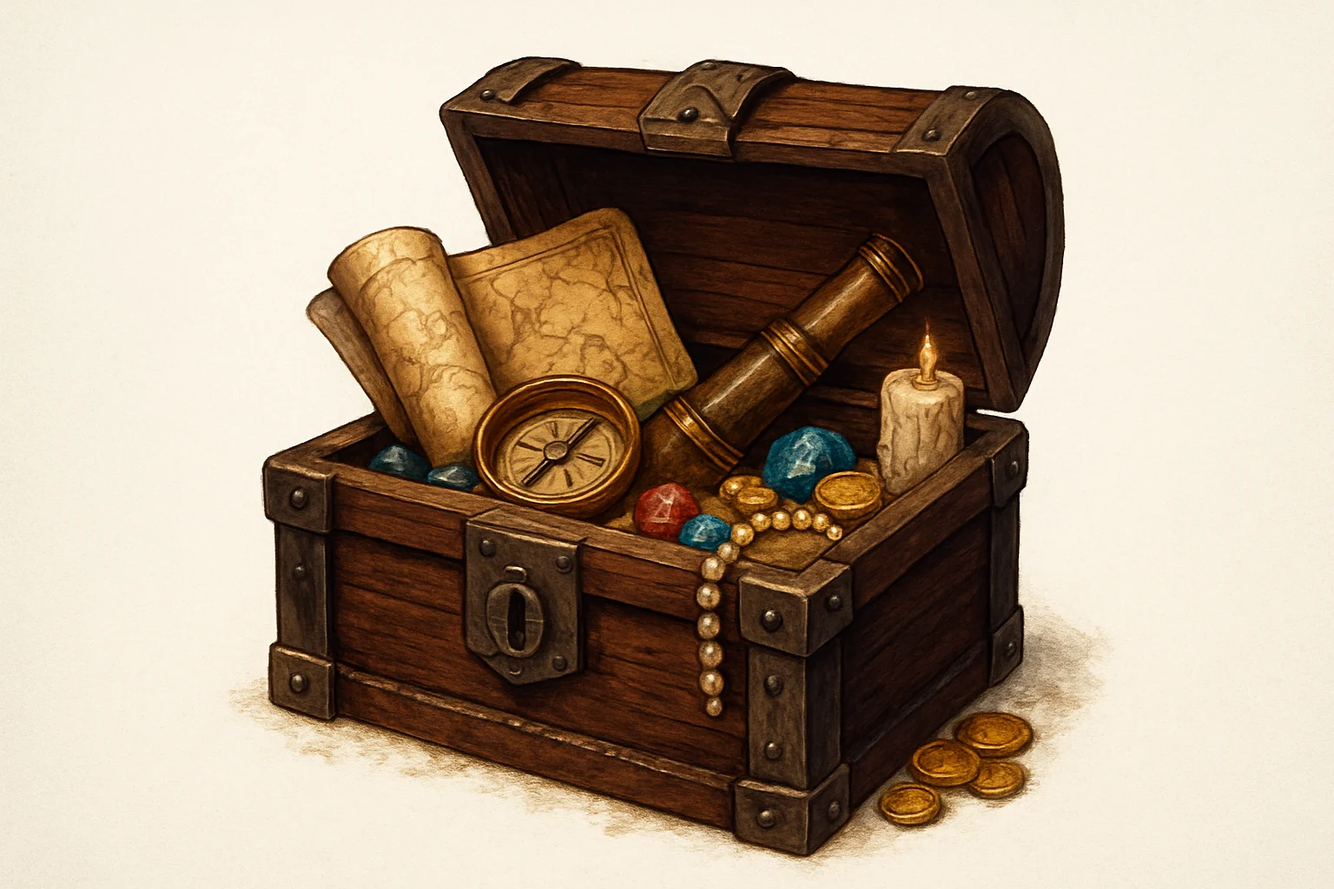
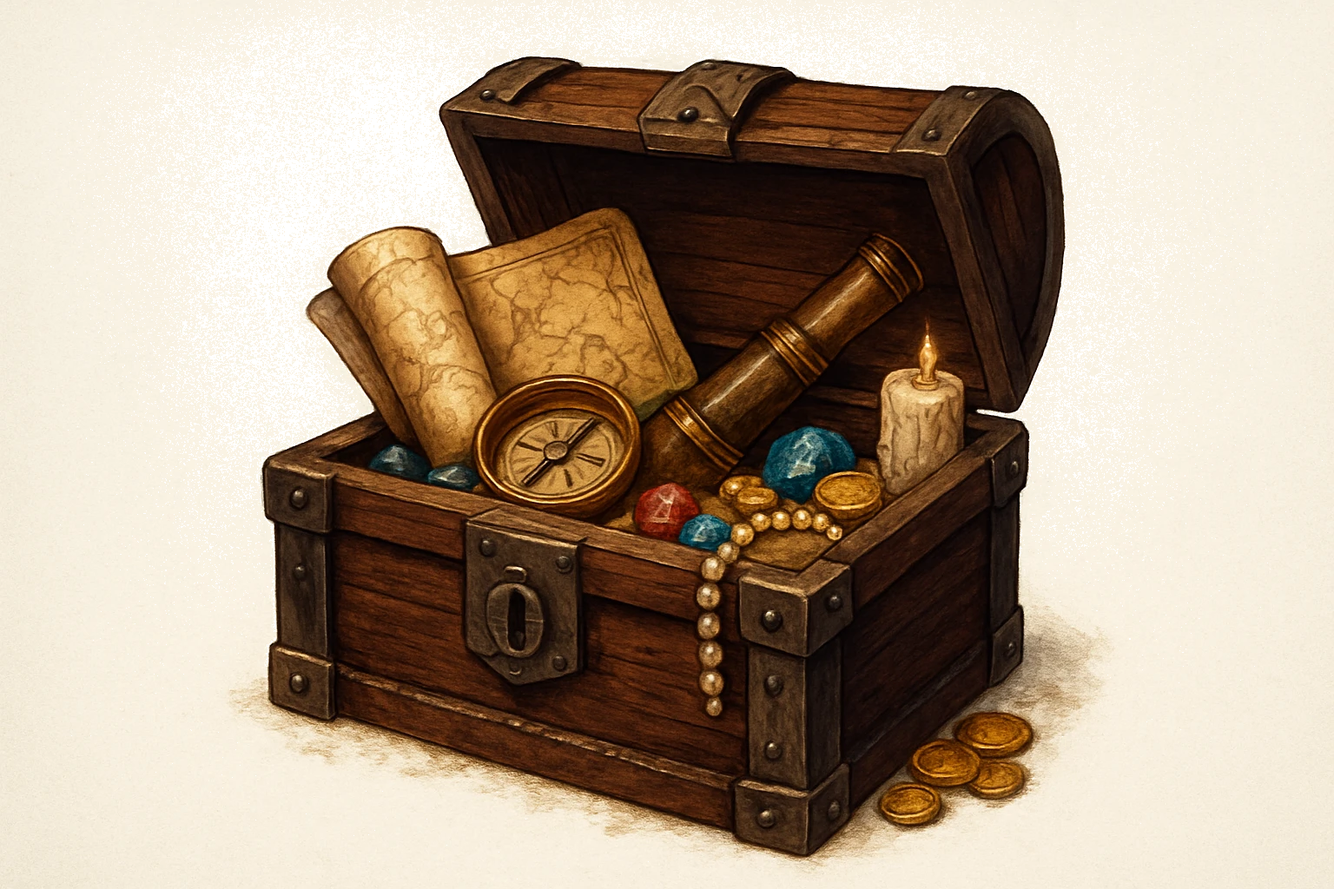
fix: точка на mapFind убрана, иконки x2, прозрачный фон ассетов
Четыре правки + бонус-фикс синхрона версий модулей.

## 1. Favicon — ассеты обновлены Алексеем (квадратные), <link> уже на месте
favicon.ico (3.8 KB → 65 KB) и favicon.png (65 KB → 240 KB) пересохранены
правильным квадратным компасом. Два <link rel=icon> в index.html уже
стояли — только cache-bust подняли.

## 2. mapFind — точка-кружок убрана (для стран с геометрией)
ui.js renderMapFind: переменная useDot заменена на isDotOnly. Раньше
точка добавлялась в двух случаях: dot-only (нет геометрии) И микро-
государства (bbox<8). Теперь — только dot-only. Для микрогосударств
автозум к MIN=80 делает оранжевую заливку path читаемой и без кружка.

⚠ Edge-case ОСТАВЛЕН: для 13 dot-only стран (GF/GP/MQ/RE/YT и пр.,
«заморские территории Франции» и мелкие острова без отдельной
геометрии в Natural Earth) точка СОХРАНЕНА — иначе карта для них
полностью пустая, вопрос не играется. Спека прямо говорит «убрать
точку», но не учитывала этот класс стран. Проверено: GF (Французская
Гвиана) после правки = 1 circle, обычная страна = 0 circles. Если
хочешь убрать ТОЖЕ — скажи, тогда уберу тему mapFind для этих 13
стран из манифеста.

## 3. Размеры иконок удвоены
css/style.css:
- .menu-inv-icon 32 → 64
- .xp-icon 20 → 40
- .bonus-chest-icon 32 → 56 (display:block → vertical-align:middle
  как в спеке; object-fit:contain оставлен — безопасен для img).
.chest-inline-icon (1.1em, инлайн в строках наград) не тронут — он
уже масштабируется по em окружающего текста.
[…]

Changed region(s): [[0.0938, 0.0, 0.875, 0.5938], [0.25, 0.1875, 0.375, 0.2812]]

diff --git a/js/ui.js b/js/ui.js
@@ -1,17 +1,17 @@
 // Слой представления: переключение экранов и заполнение их данными.
 // Никакой игровой логики и state — только DOM.
 
-import { codeToEmoji, officialName } from "./data.js?v=20260572";
-import { t } from "./i18n.js?v=20260575";
+import { codeToEmoji, officialName } from "./data.js?v=20260578";
+import { t } from "./i18n.js?v=20260578";
 
 // HTML-фрагменты для встроенных иконок (сундук в бонус-сетке/строках наград,
 // XP-медалька в счётчике). Раньше использовались эмодзи 🧰 / ✨ через
 // .textContent — теперь приёмники переключены на .innerHTML и подставляют эти
 // строки. Cache-bust ?v= на ассеты — чтобы при подмене webp-файла браузер
 // не показывал старую картинку.
-export const CHEST_HTML = '<img src="img/chest.webp?v=20260575" class="chest-inline-icon" alt="сундук">';
-const CHEST_BONUS_HTML = '<img src="img/chest.webp?v=20260575" class="bonus-chest-icon" alt="сундук">';
-const XP_ICON_HTML = '<img src="img/xp_icon.webp?v=20260575" class="xp-icon" alt="XP">';
+export const CHEST_HTML = '<img src="img/chest.webp?v=20260578" class="chest-inline-icon" alt="сундук">';
+const CHEST_BONUS_HTML = '<img src="img/chest.webp?v=20260578" class="bonus-chest-icon" alt="сундук">';
+const XP_ICON_HTML = '<img src="img/xp_icon.webp?v=20260578" class="xp-icon" alt="XP">';
 
 export function showScreen(name) {
   const screens = document.querySelectorAll(".screen");
@@ -422,9 +422,13 @@ async function loadWorldmapData() {
   return worldmapData;
 }
 
-// Рисует карту мира в flagEl с подсвеченной страной (оранжевой). Микрогосударства
-// (bbox < 8px) дополнительно помечает кружком. Автозум к bbox страны (MIN 80, отступ
-// 50%). Токен защищает от гонки: если вопрос сменился, пока грузилась карта, — выходим.
+// Рисует карту мира в flagEl с подсвеченной страной (оранжевой заливкой пути).
+// Автозум к bbox страны (MIN 80, отступ 50%). Токен защищает от гонки: если вопрос
+// сменился, пока грузилась карта, — выходим. Кружок-подсказка сверху больше не
+// рисуется для стран с геометрией (правка 2026-05-30: после автозума к MIN=80
+// заливка видна и для микрогосударств, кружок только мешал восприятию). Для
+// dot-only стран (13 без геометрии в Natural Earth) точка ОСТАЁТСЯ — без неё
+// карта для них пуста и вопрос неиграбелен.
 async function renderMapFind(country, flagEl) {
   const NS = "http://www.w3.org/2000/svg";
   const token = ++mapRenderToken;
@@ -454,11 +458,10 @@ async function renderMapFind(country, flagEl) {
 
   if (tc) {
     const [cx, cy] = tc.c;
-    let useDot = !!tc.dotOnly; // dot-only страны всегда точкой
+    const isDotOnly = !!tc.dotOnly; // нет d/bbox — только центроид
     if (tc.bbox) {
       const [x0, y0, x1, y1] = tc.bbox;
       const bw = x1 - x0, bh = y1 - y0;
-      if (bw < 8 || bh < 8) useDot = true; // микрогосударство — тоже точкой
       // Автозум к реальной геометрии
       const PAD = 0.5, MIN = 80;
       let zx0 = x0, zy0 = y0;
@@ -472,7 +475,9 @@ async function renderMapFind(country, flagEl) {
       const SIZE = 120;
       svg.setAttribute("viewBox", `${cx - SIZE} ${cy - SIZE / 2} ${SIZE * 2} ${SIZE}`);
     }
-    if (useDot) {
+    // Точка-подсказка — ТОЛЬКО для dot-only стран (без геометрии: GF/GP/MQ/RE/YT
+    // и т. п.). Для стран с реальным контуром заливка видна и без неё.
+    if (isDotOnly) {
       const dot = document.createElementNS(NS, "circle");
       dot.setAttribute("cx", cx);
       dot.setAttribute("cy", cy);

diff --git a/index.html b/index.html
@@ -4,9 +4,9 @@
   <meta charset="UTF-8">
   <meta name="viewport" content="width=device-width, initial-scale=1">
   <title>GeoGame — викторина по географии</title>
-  <link rel="icon" type="image/x-icon" href="favicon.ico?v=20260575">
-  <link rel="icon" type="image/png" sizes="192x192" href="favicon.png?v=20260575">
-  <link rel="stylesheet" href="css/style.css?v=20260575">
+  <link rel="icon" type="image/x-icon" href="favicon.ico?v=20260578">
+  <link rel="icon" type="image/png" sizes="192x192" href="favicon.png?v=20260578">
+  <link rel="stylesheet" href="css/style.css?v=20260578">
 </head>
 <body>
   <header class="topbar">
@@ -41,7 +41,7 @@
         <!-- Инвентарь (только сундуки) -->
         <div class="menu-inventory">
           <div class="menu-inv-item">
-            <img src="img/chest.webp?v=20260575" class="menu-inv-icon" alt="сундук">
+            <img src="img/chest.webp?v=20260578" class="menu-inv-icon" alt="сундук">
             <span class="menu-inv-count" id="menu-inv-chests">0</span>
           </div>
         </div>
@@ -113,7 +113,7 @@
 
         <div class="setup-info-row">
           <span><span data-i18n="regions.available">Доступно вопросов:</span> <span id="available-count">—</span></span>
-          <span><span data-i18n="regions.xp">Опыт:</span> <img src="img/xp_icon.webp?v=20260575" class="xp-icon" alt="XP"><span id="xp-total">0</span> <span data-i18n="regions.xp-unit">XP</span></span>
+          <span><span data-i18n="regions.xp">Опыт:</span> <img src="img/xp_icon.webp?v=20260578" class="xp-icon" alt="XP"><span id="xp-total">0</span> <span data-i18n="regions.xp-unit">XP</span></span>
         </div>
         <div class="setup-info-row">
           <span><span data-i18n="regions.record">Рекорд:</span> <span id="best-xp">0</span> XP</span>
@@ -366,6 +366,6 @@
     </div>
   </div>
 
-  <script type="module" src="js/main.js?v=20260577"></script>
+  <script type="module" src="js/main.js?v=20260578"></script>
 </body>
 </html>

diff --git a/js/i18n.js b/js/i18n.js
@@ -60,7 +60,7 @@ const STRINGS = {
     "bonus.end":     "Конец",
     "bonus.you-got": "Ваш приз:",
     "bonus.prize.xp":     "+{n} XP",
-    "bonus.prize.chest":  '<img src="img/chest.webp?v=20260575" class="chest-inline-icon" alt="сундук"> +{n} сундук(ов)',
+    "bonus.prize.chest":  '<img src="img/chest.webp?v=20260578" class="chest-inline-icon" alt="сундук"> +{n} сундук(ов)',
     "alert.no-questions": "Нет вопросов под выбранные настройки. Измените регионы или темы.",
     "map.loading": "Загружаем карту…",
     "alert.limited": "Доступно только {n} вопросов. Продолжить?",
@@ -195,7 +195,7 @@ const STRINGS = {
     "bonus.end":     "Done",
     "bonus.you-got": "Your prize:",
     "bonus.prize.xp":     "+{n} XP",
-    "bonus.prize.chest":  '<img src="img/chest.webp?v=20260575" class="chest-inline-icon" alt="chest"> +{n} chest(s)',
+    "bonus.prize.chest":  '<img src="img/chest.webp?v=20260578" class="chest-inline-icon" alt="chest"> +{n} chest(s)',
     "alert.no-questions": "No questions for selected settings. Change regions or topics.",
     "map.loading": "Loading map…",
     "alert.limited": "Only {n} questions available. Continue?",

diff --git a/css/style.css b/css/style.css
@@ -991,25 +991,25 @@ h1 { font-size: 24px; margin: 0 0 4px; text-align: center; }
   gap: 2px;
 }
 .menu-inv-icon {
-  width: 32px;
-  height: 32px;
+  width: 64px;
+  height: 64px;
   object-fit: contain;
   vertical-align: middle;
 }
 /* XP-иконка в инлайне (меню, экран ответа). */
 .xp-icon {
-  width: 20px;
-  height: 20px;
+  width: 40px;
+  height: 40px;
   object-fit: contain;
   vertical-align: middle;
   margin-right: 4px;
 }
 /* Сундук в бонус-сетке (крупный, центрированный — родитель flex). */
 .bonus-chest-icon {
-  width: 32px;
-  height: 32px;
+  width: 56px;
+  height: 56px;
   object-fit: contain;
-  display: block;
+  vertical-align: middle;
 }
 /* Сундук в инлайн-строках (дейлик, вехи стрика, квесты, попап достижения).
    Размер привязан к шрифту окружающей строки, чтобы не выламываться. */

diff --git a/js/main.js b/js/main.js
@@ -20,7 +20,7 @@ import {
   hasReligion,
   hasSilhouette,
   hasMapFind,
-} from "./data.js?v=20260572";
+} from "./data.js?v=20260578";
 import {
   getLang,
   setLang,
@@ -29,7 +29,7 @@ import {
   TOPIC_LABELS,
   TOPIC_QUESTIONS,
   REGION_LABELS,
-} from "./i18n.js?v=20260575";
+} from "./i18n.js?v=20260578";
 import {
   showScreen,
   getPlayAgainButton,
@@ -74,7 +74,7 @@ import {
   hideAchievementPopup,
   showXpRewardPopup,
   hideXpRewardPopup,
-} from "./ui.js?v=20260575";
+} from "./ui.js?v=20260578";
 import { onUserChanged, signInWithGoogle, signOutUser,
          loadUserData, saveUserData } from "./firebase.js?v=20260539";
 import { getLevelFromXP, getXPProgress, getUnlockedDifficulties, getUnlockLevel,

diff --git a/js/data.js b/js/data.js
@@ -1,6 +1,6 @@
 // Слой данных: загрузка стран из локального data/countries.json и геттеры полей страны.
 
-import { getLang } from "./i18n.js?v=20260572";
+import { getLang } from "./i18n.js?v=20260578";
 
 // Данные стран — локальный файл (обновляется вручную через scripts/fetch_countries.js).
 // Рантайм больше не ходит в restcountries.com: мгновенная загрузка, без внешних зависимостей.

diff --git a/CLAUDE.md b/CLAUDE.md
@@ -50,8 +50,8 @@ GeoGame — браузерная игра-викторина по географ
 - `js/bg.js` — ротация фоновых сцен с crossfade (`initBackgroundRotation`): два слоя `body::before`/`::after`, класс `body.bg-toggle`, смена каждые 5 мин. Только локальные файлы, без сети.
 - `img/flags/{cca2}.svg` — флаги всех 250 стран (локально, ~2.7 МБ). `img/coats/{cca2}.svg` — гербы 222 стран (локально, ~39 МБ). Скачаны `scripts/download_assets.js`. Рендер — `localAssetImg("flags"|"coats", cca2, …)` в ui.js, фолбэк `svg → png → эмодзи/🏛`. **CDN flagcdn/mainfacts в рантайме больше не используются** (#26).
 - `favicon.ico` / `favicon.png` — иконка вкладки (компас). В `<head>` index.html подключены парой `<link rel="icon">` (ico для legacy, png 192×192 для современных браузеров / PWA). Раньше там жил inline-SVG звезда — удалён 2026-05-30.
-- `img/chest.webp` — иконка сундука 🧰. Используется в 4 местах через 3 CSS-класса: `.menu-inv-icon` (32×32, инвентарь меню), `.bonus-chest-icon` (32×32, бонус-сетка), `.chest-inline-icon` (1.1em, инлайн в строках наград — дейлик/вехи/квесты/попап достижения/i18n bonus.prize.chest). HTML-фрагменты определены константами в `ui.js` (`CHEST_HTML`/`CHEST_BONUS_HTML`), приёмники переключены с `.textContent` на `.innerHTML`. Эмодзи 🧰 в строках i18n заменены HTML-img.
-- `img/xp_icon.webp` — иконка XP (медаль). Используется через `.xp-icon` (20×20, vertical-align middle): в строке «Опыт: N XP» на экране Регионов (`#xp-total`) и на экране результата ответа (`#answer-xp` после `renderAnswerResult(...,earnedXp)`). HTML-фрагмент — `XP_ICON_HTML` в ui.js. `answer-xp` теперь показывает **реально начисленный XP** (баланс по сложности 10/15/25/40 → подставляется через 4-й параметр), а не хардкод «+10».
+- `img/chest.webp` — иконка сундука 🧰 (прозрачный фон). Используется в 4 местах через 3 CSS-класса: `.menu-inv-icon` (64×64, инвентарь меню), `.bonus-chest-icon` (56×56, бонус-сетка), `.chest-inline-icon` (1.1em, инлайн в строках наград — дейлик/вехи/квесты/попап достижения/i18n bonus.prize.chest). Размеры удвоены 2026-05-30 (было 32/32). HTML-фрагменты определены константами в `ui.js` (`CHEST_HTML`/`CHEST_BONUS_HTML`), приёмники переключены с `.textContent` на `.innerHTML`. Эмодзи 🧰 в строках i18n заменены HTML-img.
+- `img/xp_icon.webp` — иконка XP (медаль, прозрачный фон). Используется через `.xp-icon` (40×40, vertical-align middle, удвоено 2026-05-30): в строке «Опыт: N XP» на экране Регионов (`#xp-total`) и на экране результата ответа (`#answer-xp` после `renderAnswerResult(...,earnedXp)`). HTML-фрагмент — `XP_ICON_HTML` в ui.js. `answer-xp` показывает **реально начисленный XP** (баланс по сложности 10/15/25/40 → подставляется через 4-й параметр), а не хардкод «+10».
 - `scripts/download_assets.js` — Node-скрипт (ручной запуск): качает флаги/гербы из CDN (URL берёт из `data/countries.json`) в `img/flags`/`img/coats`.
 - `scripts/build_silhouettes.js` — Node-скрипт (ручной запуск): тянет Natural Earth 50m GeoJSON, строит SVG-силуэты в `data/silhouettes/` + манифест `index.json`. Код страны — `getCca2` (#45): `ISO_A2`, только если это валидный 2-буквенный код (regex `^[A-Z]{2}$`), иначе фолбэк `ISO_A2_EH` — ловит мусор вроде Тайваня («CN-TW»). Эвристика антимеридиана (сдвиг долгот при ширине bbox > 180° — для России/США/Фиджи); при нескольких feature на один код берёт самый крупный (AU = материк, а не о-ва Ашмор).
 - `scripts/build_worldmap.js` — Node-скрипт (ручной запуск): тянет Natural Earth 50m GeoJSON, проецирует все страны geoNaturalEarth1 (формула d3-geo реализована **вручную, без npm**) в экранные координаты и пишет `data/worldmap.json` + `data/worldmap_index.json`. Код страны — тот же `getCca2` с валидацией формата (#45). Несколько feature на код сливаются в один путь; bbox/центроид — по крупнейшему контуру. Антимеридиан НЕ сдвигается (единая мировая проекция; автозум к крупнейшему контуру). После GeoJSON добавляет dot-only записи для стран из `data/missing_centroids.json`, которых не было в данных (#45).
@@ -76,7 +76,7 @@ GeoGame — браузерная игра-викторина по географ
 
 Группировка (порядок в `TOPICS`, обновлено 2026-05-30): визуал-первой (mapFind/country/silhouette/coatOfArms) → ключевая инфа о стране (capital/population/nativeName/language/religion/currency) → инверсии и статистика (countryByCapital/density/area). Прогрессия d0 → lv1..lv13, d1 → lv14..lv26, d2 → lv27..lv39, d3 → lv40..lv52.
 
-1. **Найди на карте** (`mapFind`) — SVG-карта мира с выделенной оранжевым страной (`prompt.type === "mapFind"`) → выбрать страну из N вариантов. Тип А (назови страну), `answer` = `getName`. `valid`: `hasMapFind` — гейтится манифестом `data/worldmap_index.json` (**все 250 стран**, #45). Карта рендерится из **предварительно спроецированных** путей (`data/worldmap.json`, без D3 в рантайме); микрогосударства (bbox < 8px) и dot-only страны (13 без геометрии — `data/missing_centroids.json`) помечаются оранжевым кружком (для dot-only — фикс-зум 240×120 вокруг центроида); автозум к bbox страны (MIN 80, отступ 50%). **Первая тема в TOPICS**, открывается на уровне 1 (стартовая/витринная).
+1. **Найди на карте** (`mapFind`) — SVG-карта мира с выделенной оранжевой заливкой страной (`prompt.type === "mapFind"`) → выбрать страну из N вариантов. Тип А (назови страну), `answer` = `getName`. `valid`: `hasMapFind` — гейтится манифестом `data/worldmap_index.json` (**все 250 стран**, #45). Карта рендерится из **предварительно спроецированных** путей (`data/worldmap.json`, без D3 в рантайме); автозум к bbox страны (MIN 80, отступ 50%). Кружок-подсказка над страной убран 2026-05-30 — оранжевая заливка пути читается и для микрогосударств после автозума. Кружок СОХРАНЁН только для dot-only стран (13 без геометрии — `data/missing_centroids.json`: GF/GP/MQ/RE/YT и др.; фикс-зум 240×120 вокруг центроида), иначе тема для них неиграбельна (контура нет, заливать нечего). **Первая тема в TOPICS**, открывается на уровне 1 (стартовая/витринная).
 2. **Страна по флагу** (`country`) — показывается флаг, выбрать название страны из 4 вариантов. d0 = lv2.
 3. **Силуэт** (`silhouette`) — SVG-контур границ страны (`prompt.type === "silhouette"`, из `data/silhouettes/{cca2}.svg`) → выбрать страну из N вариантов. Тип А (назови страну), `answer` = `getName`. `valid`: `hasSilhouette` — гейтится манифестом `data/silhouettes/index.json` (237 стран; +Тайвань с #45; 13 заморских/островных без отдельной геометрии не участвуют — силуэт для них невозможен). Силуэт залит индиго (#4f46e5), фолбэк рендера — «?». d0 = lv3.
 4. **Герб** (`coatOfArms`) — изображение герба (`prompt.type === "coa"`) → выбрать страну. `valid`: `hasCoatOfArms`. d0 = lv4.
